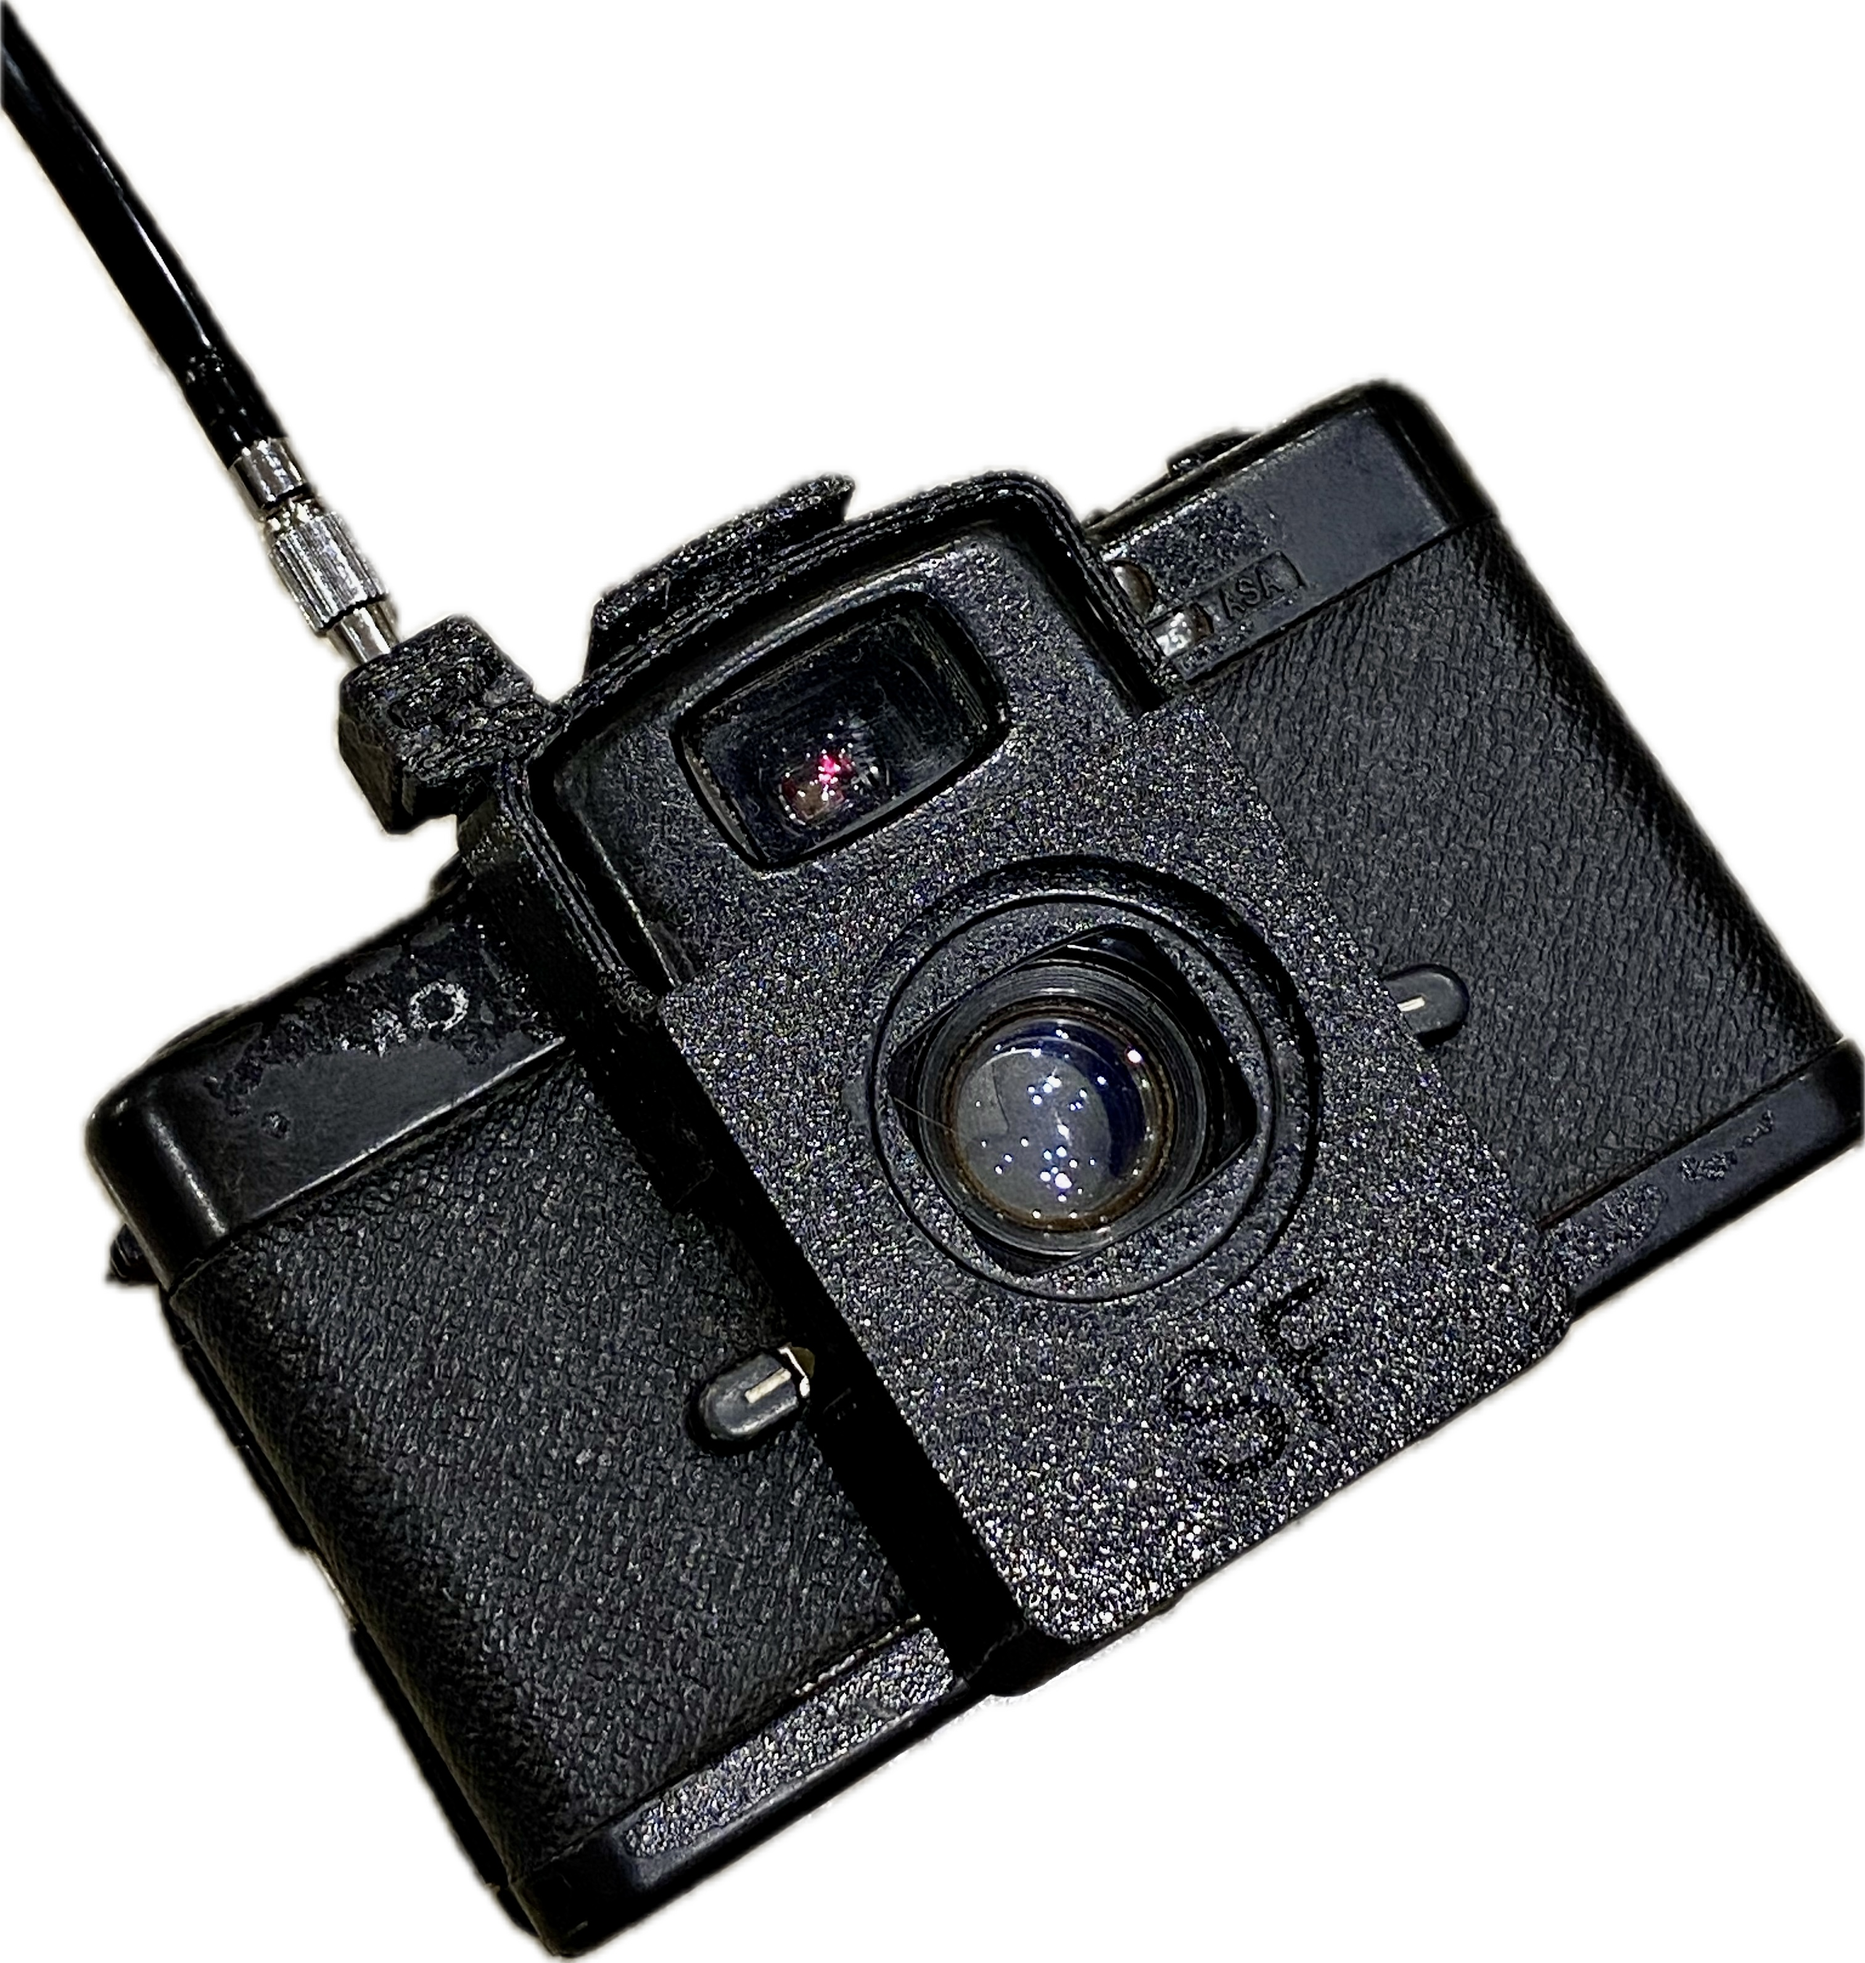
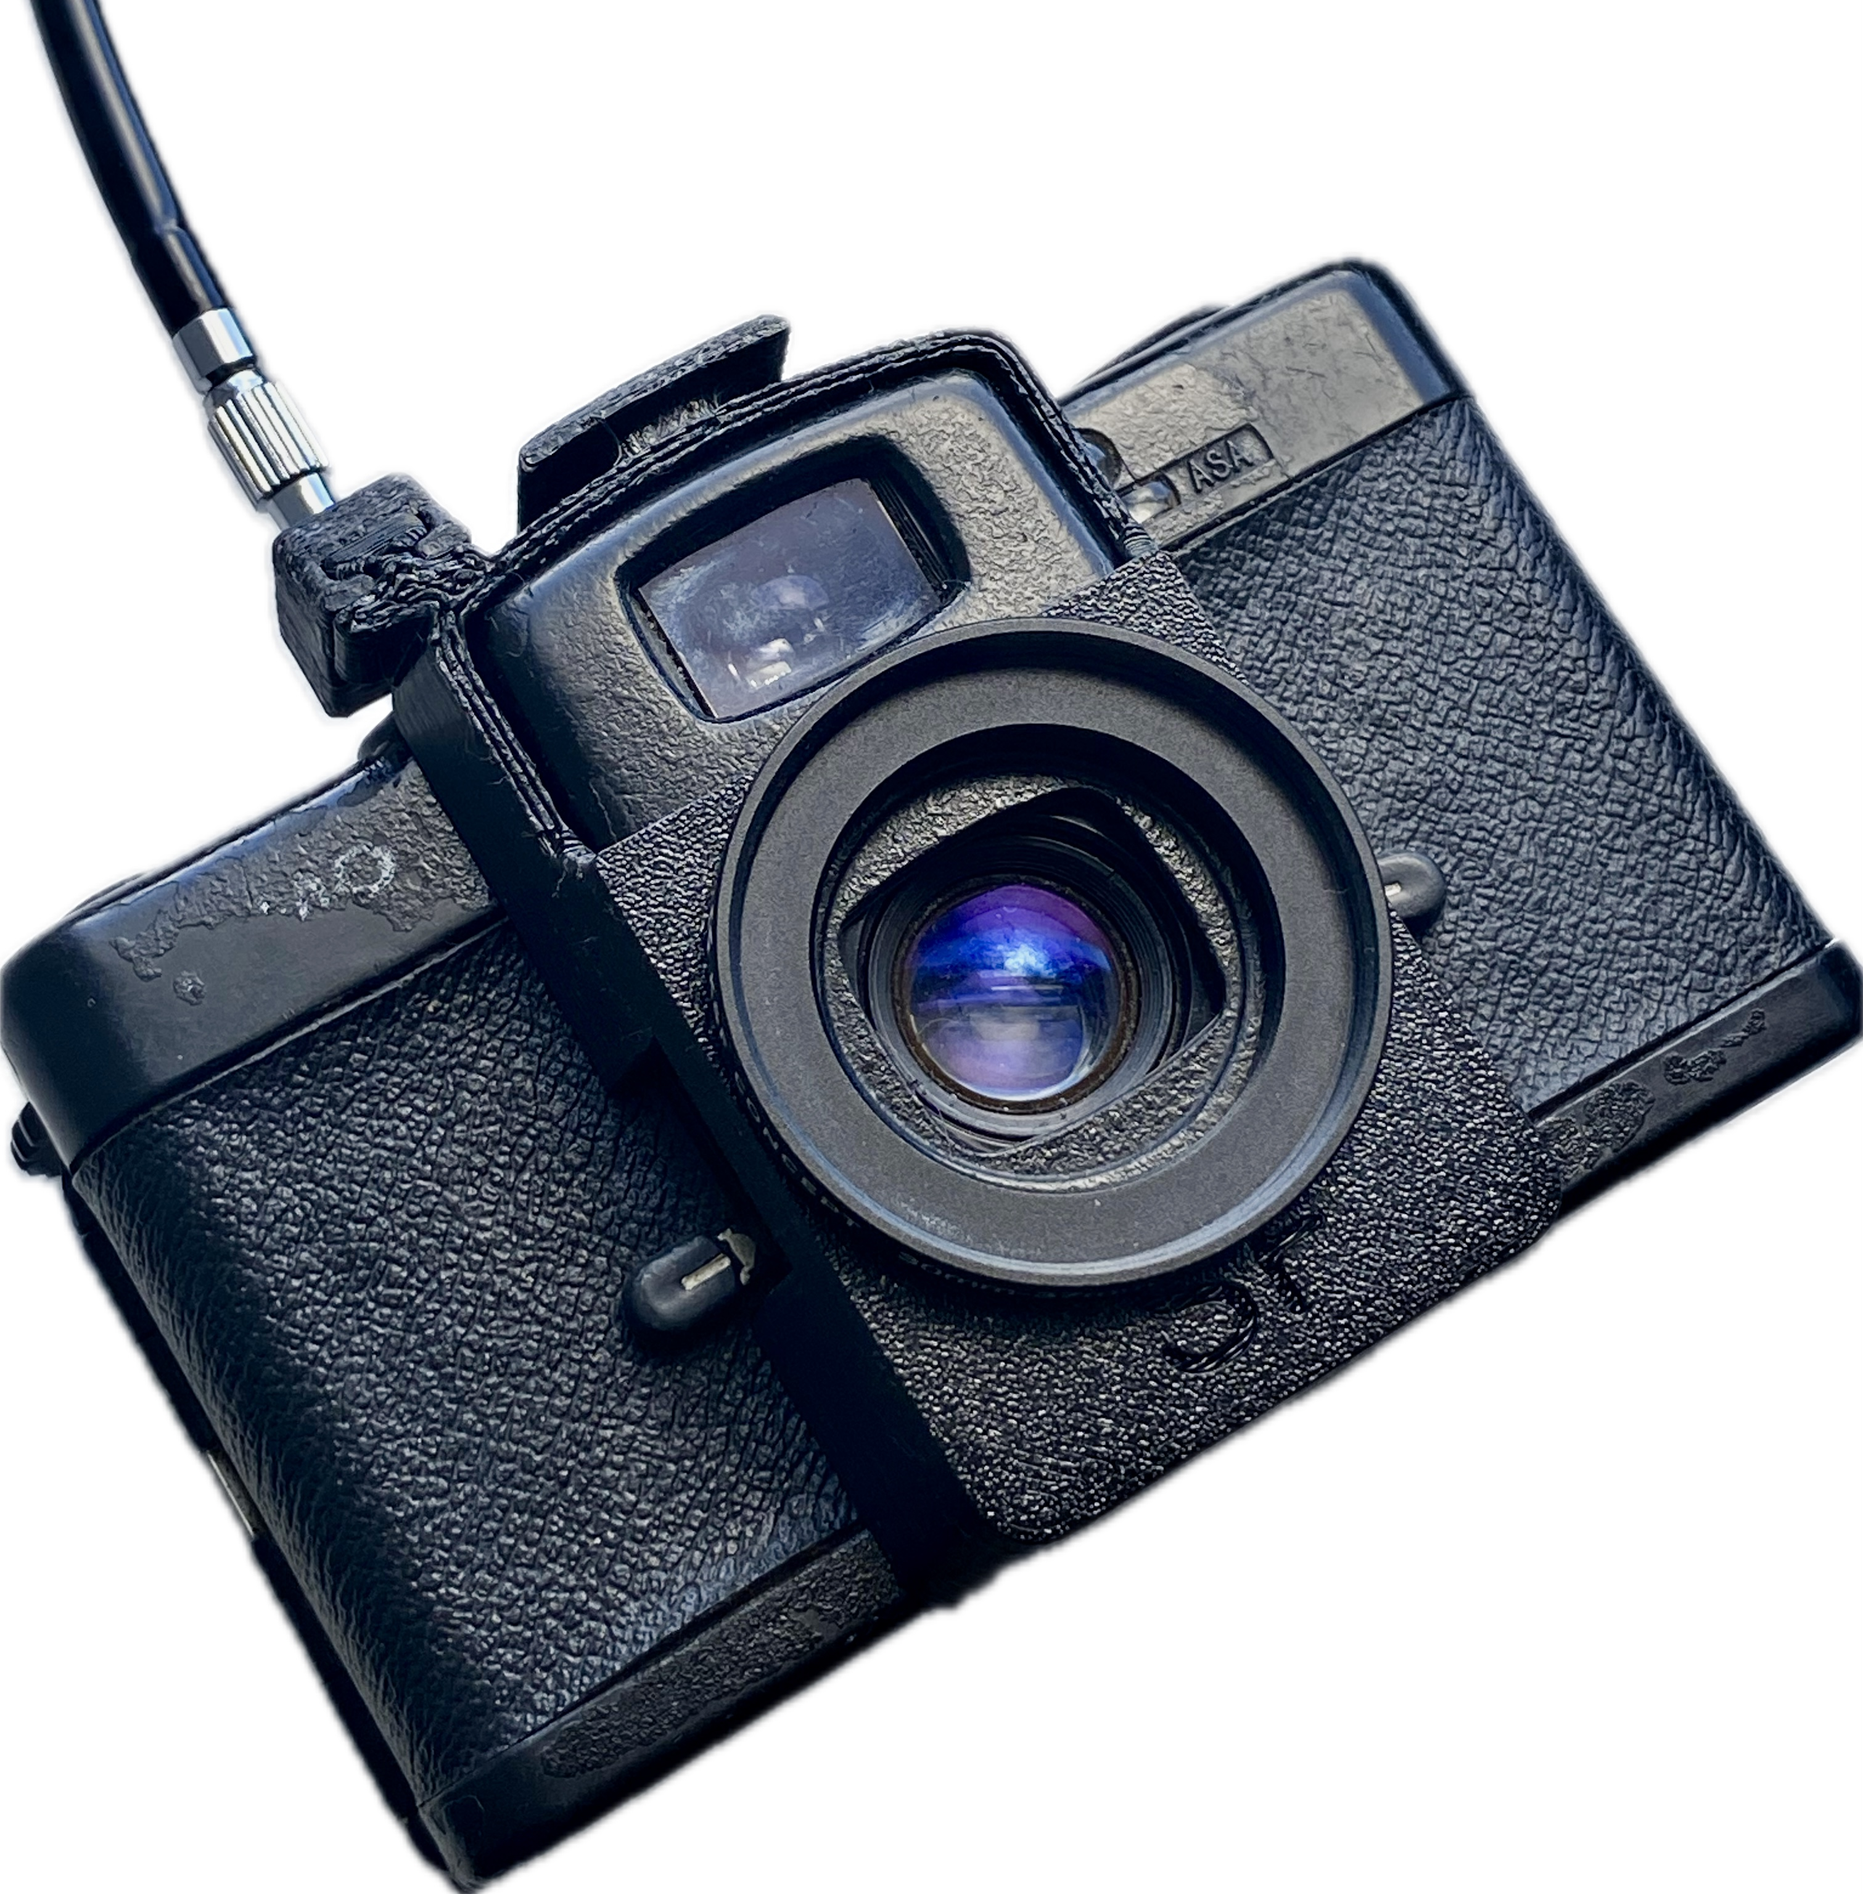
Updated Lomo LC-A Adapter

diff --git a/lomo-lc-a-adapter.md b/lomo-lc-a-adapter.md
@@ -3,7 +3,7 @@ LOMO LC-A Shutter Release Cable Adapter. Please note the cable required is shown
 
 Designed by me from scratch to fit the LOMO LC-A camera. It allows you to use a shutter release cable and filters.
 
-This adapter is push fit, it fits snuggly over and around the lens, whilst allowing access to the iso setting, aperture lever, focus lever and lens switch.
+This adapter is push fit, it fits snuggly over and around the lens, whilst allowing access to the iso setting, aperture lever, focus lever and lens switch. Use of this adapter prevents use of the flash hot shoe.
 
 This adapter uses a linear threaded nut to hold the shutter release cable so it is best not to screw the cable in too tight unless you don’t plan on removing it again.
 
@@ -13,7 +13,7 @@ To use with a cable:
 1. Attached the cable anchor to the adapter.
 2. Screw release cable into the adapter through the top as shown.
 3. Push adapter onto the camera as shown.
-4. Insert the adapter retainer into the flash bar and click it down into the adapter.
+4. Slide the adapter retainer into the flash hot shoe and click it down into the adapter.
 
 To use with a filter:
 
